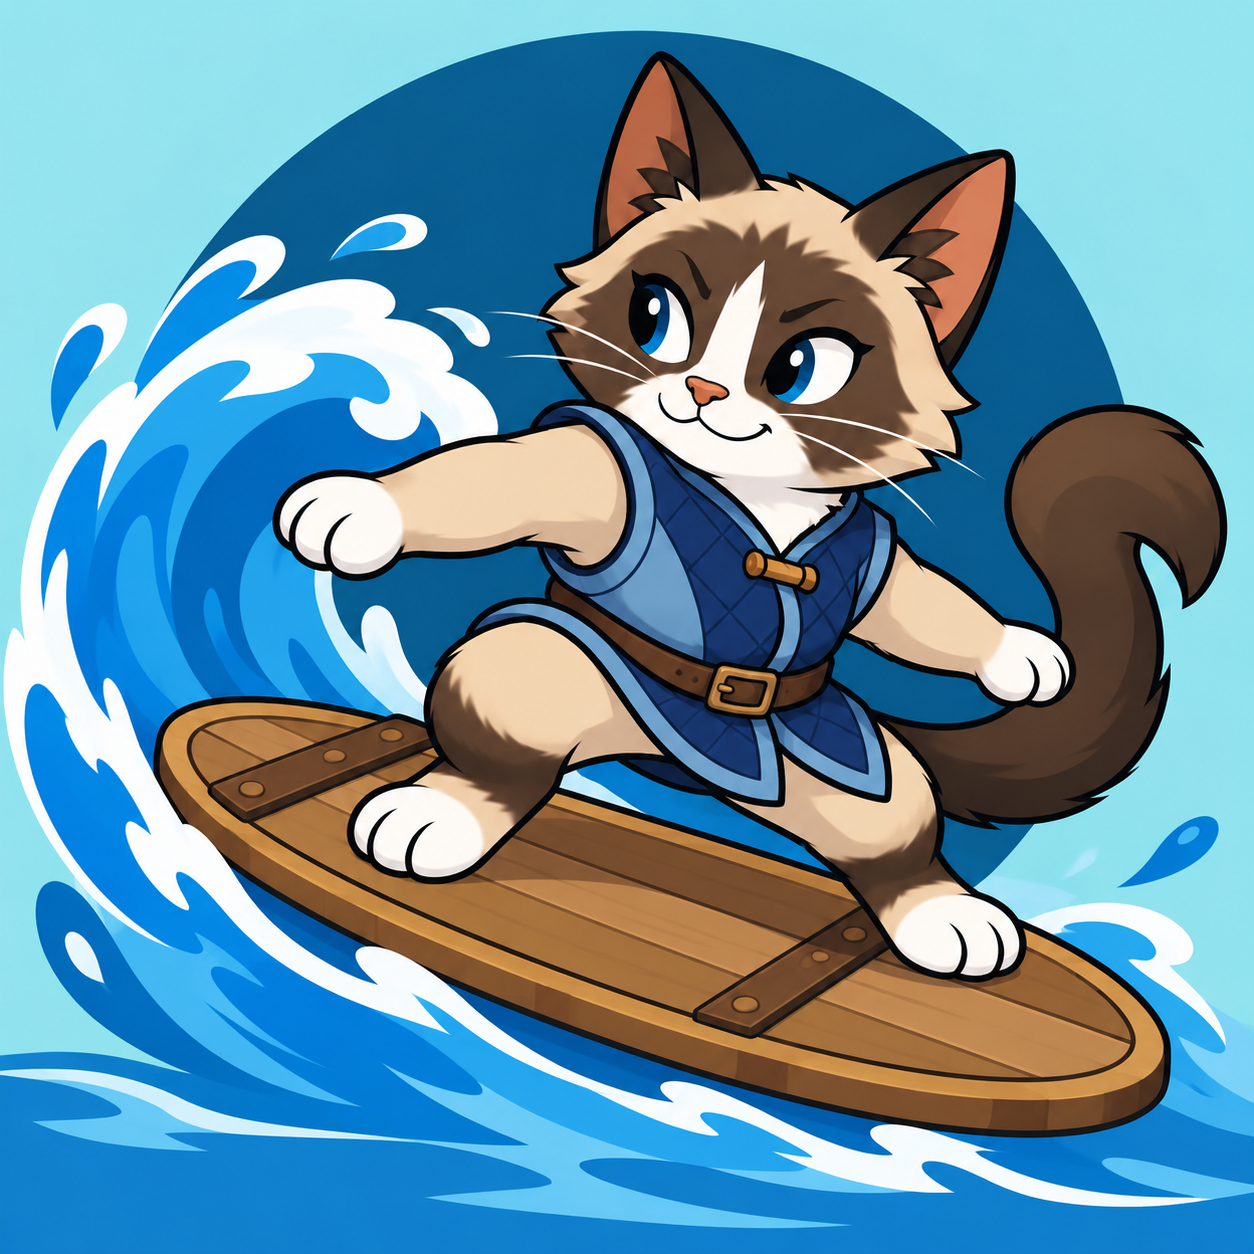
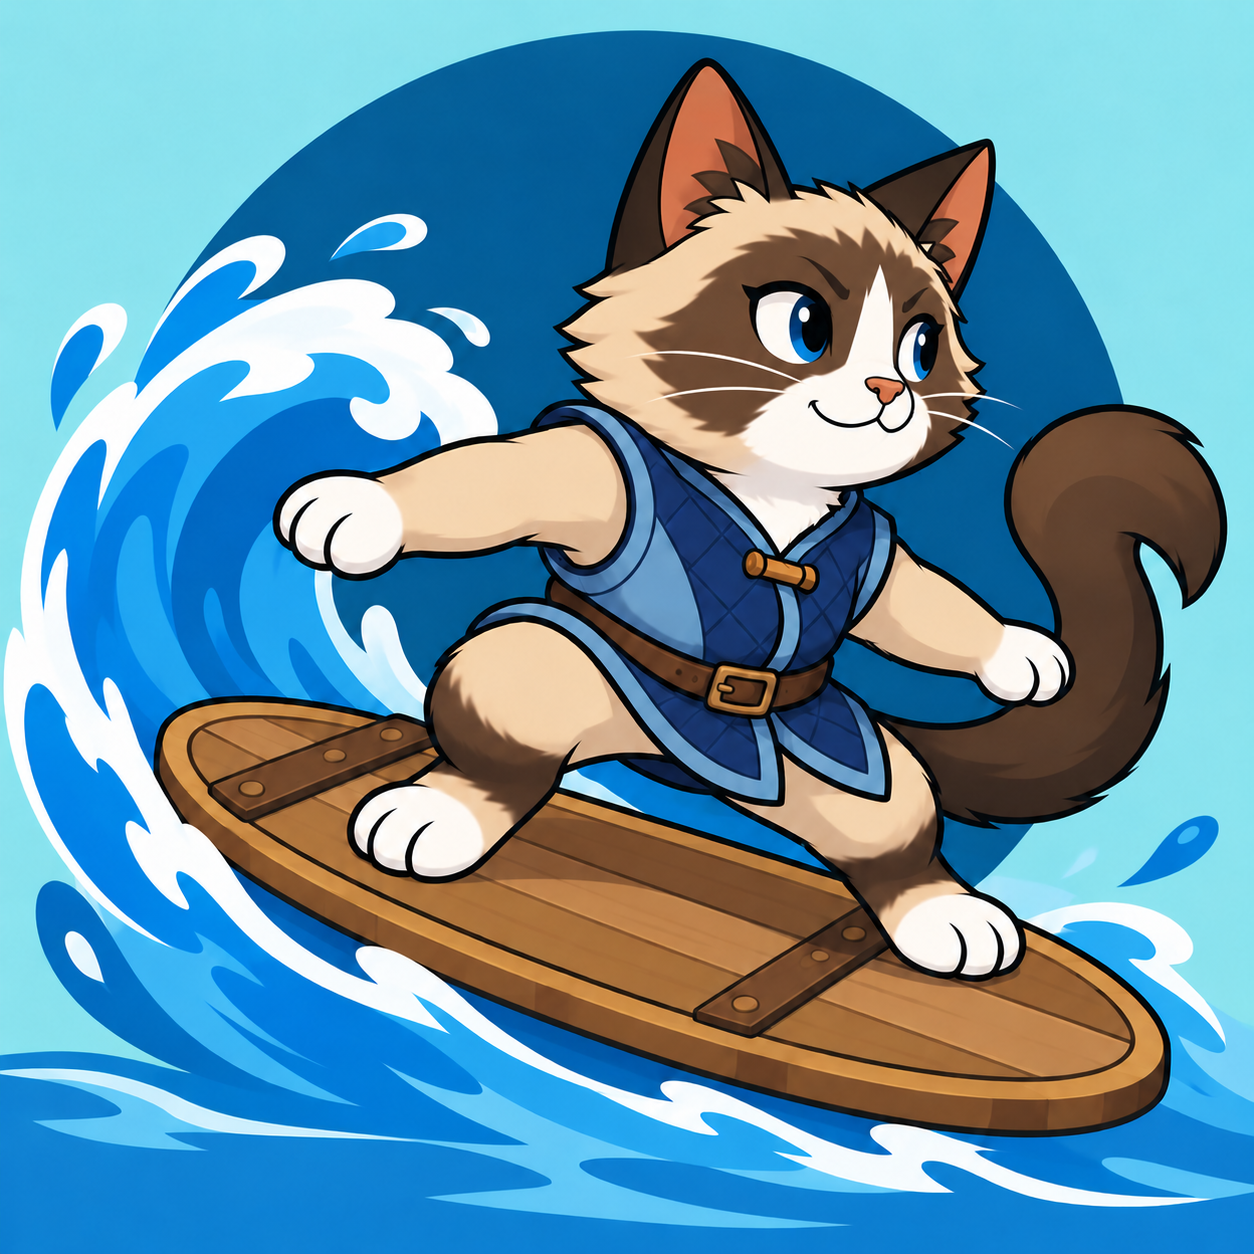
Turn Isai Tidebind's head toward the right

diff --git a/test/uncommon-expansion-artwork.test.js b/test/uncommon-expansion-artwork.test.js
@@ -38,7 +38,7 @@ test("new Uncommon PNG masters match the existing square Rally master dimensions
 });
 
 test("the wave-rider and glider redesigns retain their exact original drafts", () => {
-  assert.equal(manifest.version, 6);
+  assert.equal(manifest.version, 7);
   const hidayn = manifest.cards.find(card => card.name === "Hidayn Windbrace");
   const isai = manifest.cards.find(card => card.name === "Isai Tidebind");
   assert.match(hidayn.characterDescription, /glider soldier/);
@@ -108,6 +108,23 @@ test("Shazmir's toe-count correction records its focused prompt and preserves th
   const secondAttempt = shazmir.revisionHistory.find(revision => revision.type === "toe-count-second-pass-rejected");
   assert.ok(secondAttempt);
   assert.notEqual(shazmir.generationSource, secondAttempt.source);
+});
+
+test("Isai's right-facing head edit retains the exact previous wave-rider master and head-only edit intent", () => {
+  const isai = manifest.cards.find(card => card.name === "Isai Tidebind");
+  const previous = isai.revisionHistory.find(revision => revision.type === "wave-rider-head-left-preserved");
+  assert.ok(previous);
+  assert.equal(previous.asset, "isai-tidebind-before-head-turn.png");
+  const backup = readFileSync(new URL(previous.asset, artworkFolder));
[1 lines of base64/hex data omitted]
+  assert.notDeepEqual(readFileSync(new URL(isai.asset, artworkFolder)), backup);
+  assert.notEqual(isai.generationSource, previous.source);
+  assert.match(previous.prompt, /LOW SURFING CROUCH/);
+  assert.match(isai.latestRevisionPrompt, /turn ONLY Isai's HEAD toward the RIGHT SIDE OF THE CARD/);
+  assert.match(isai.latestRevisionPrompt, /DO NOT MIRROR THE WHOLE IMAGE/);
+  assert.match(isai.poseDescription, /head turned toward the right side of the card/);
+  assert.equal(isai.asset, "isai-tidebind.png");
+  assert.deepEqual(isai.intendedStats, { rarity: "uncommon", role: "finisher", power: 5 });
 });
 
 test("the three framed previews fill the missing non-Rally role per element without changing normal gameplay", () => {
